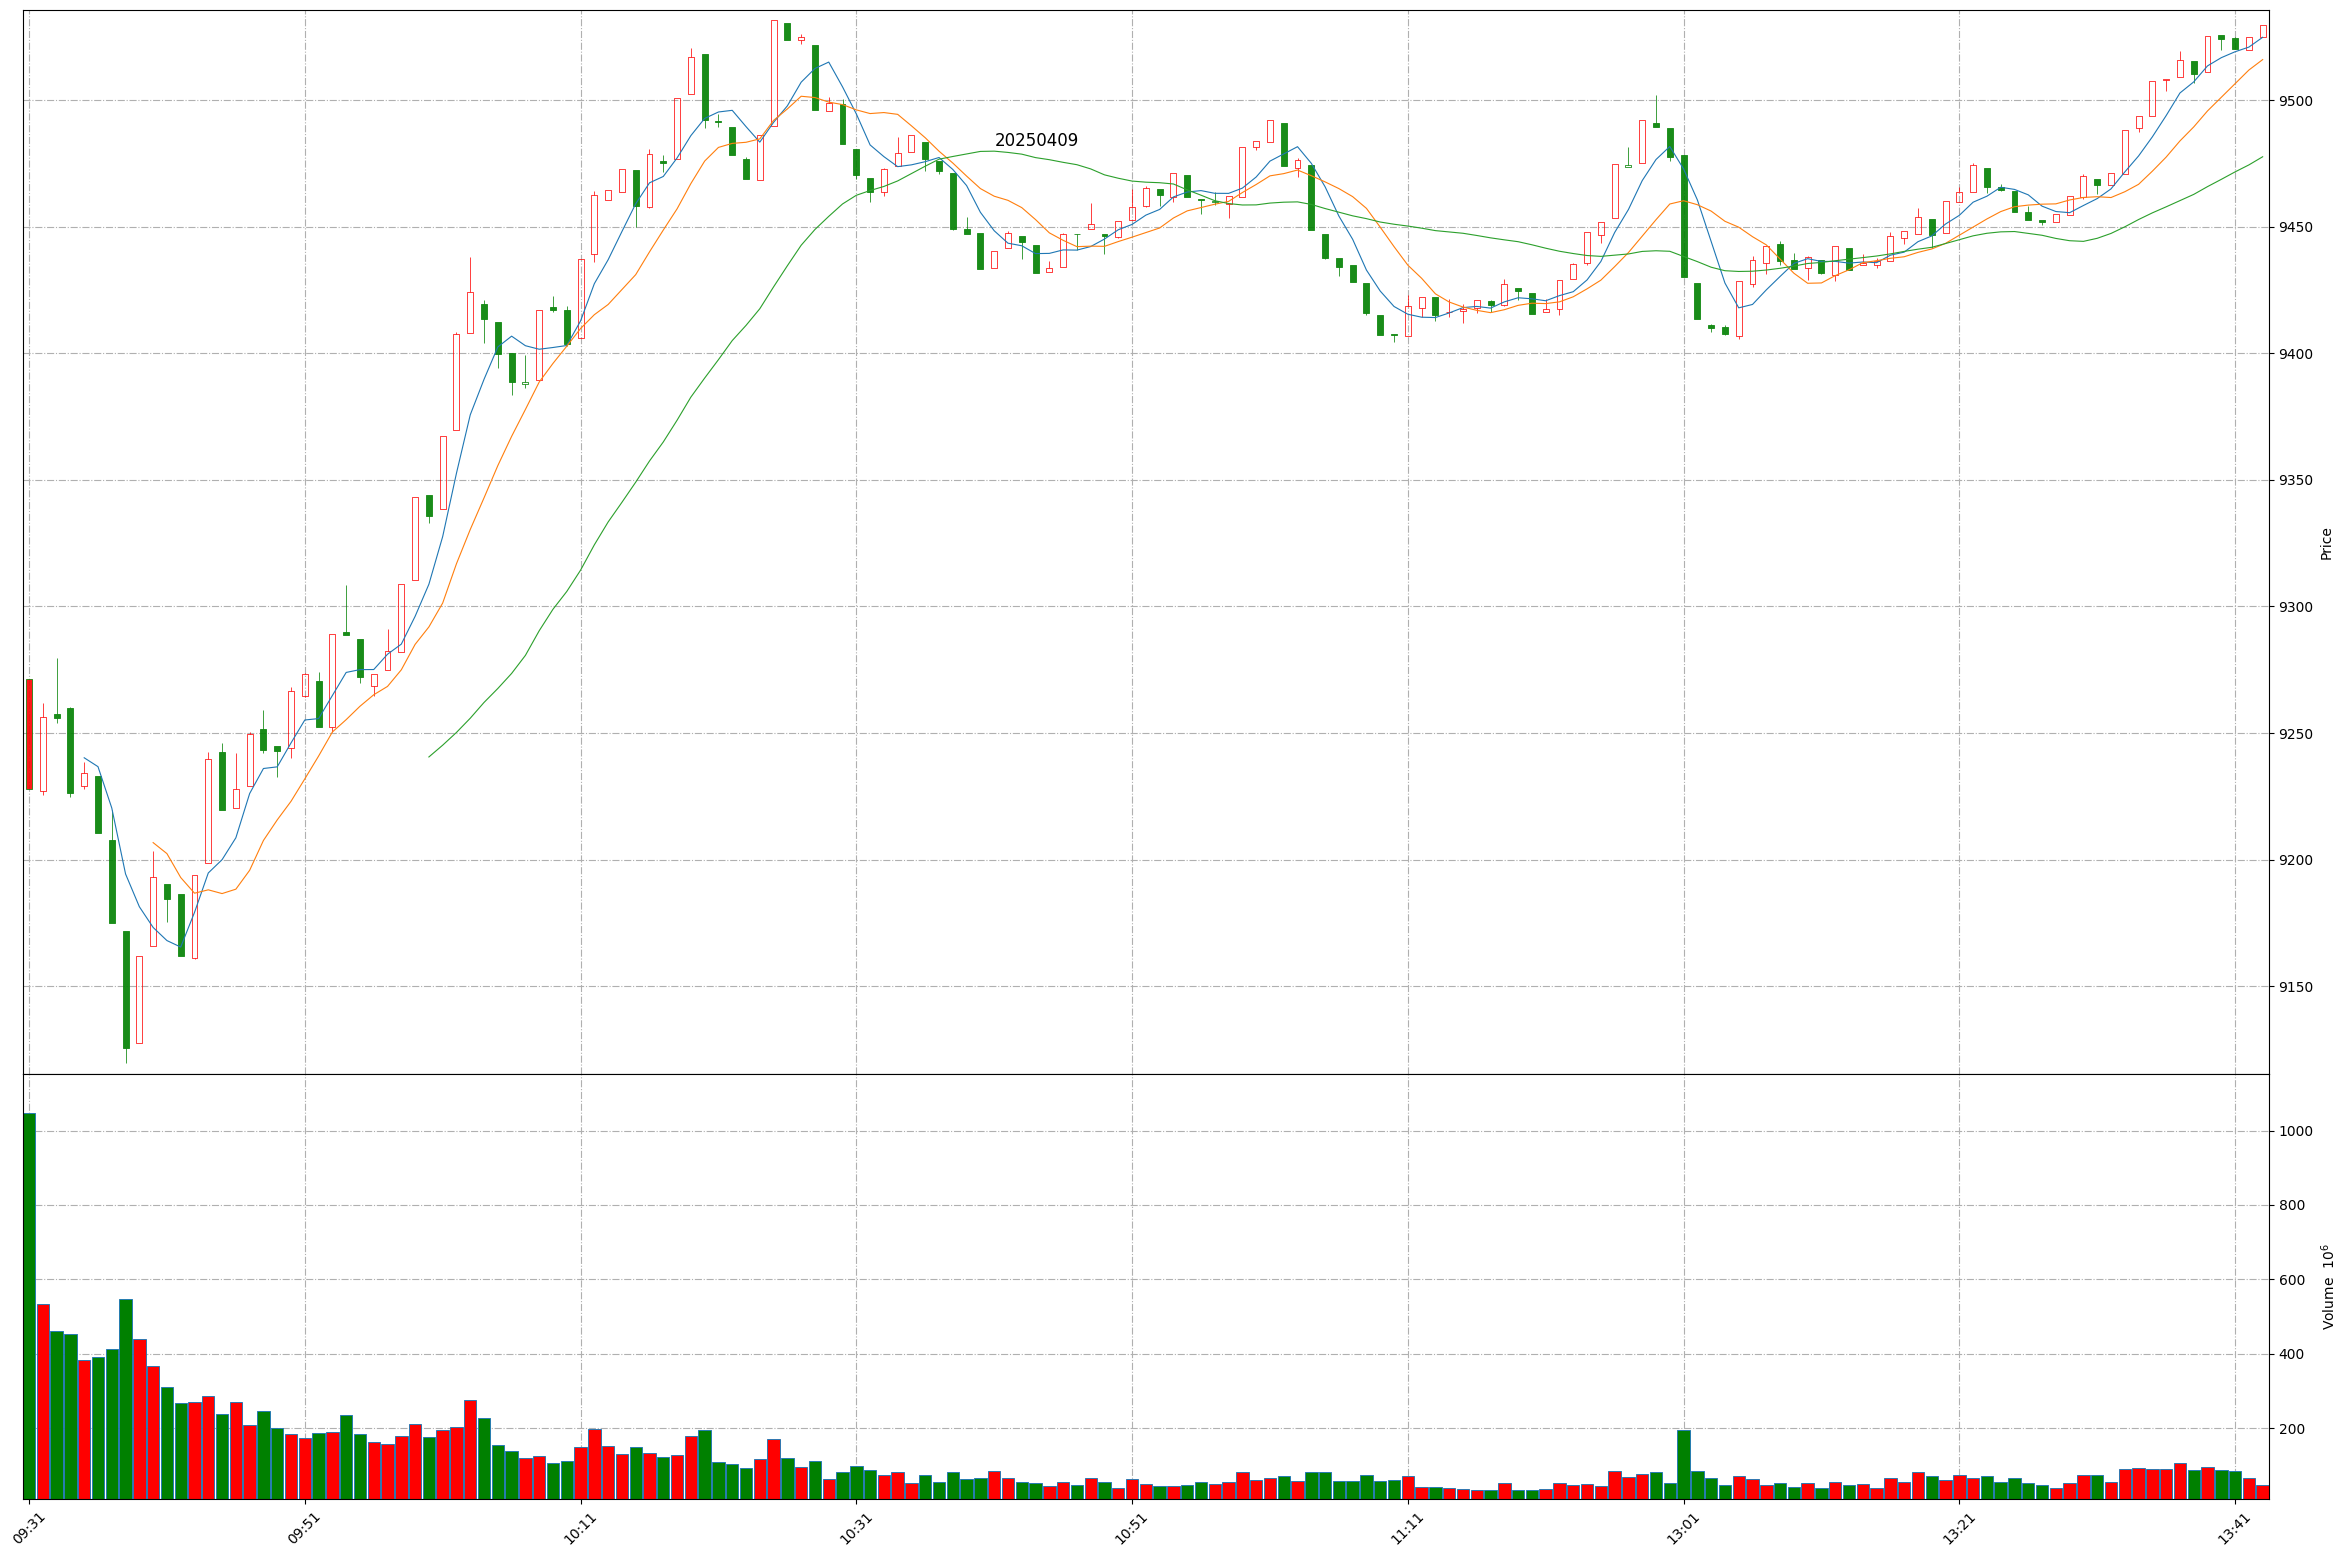
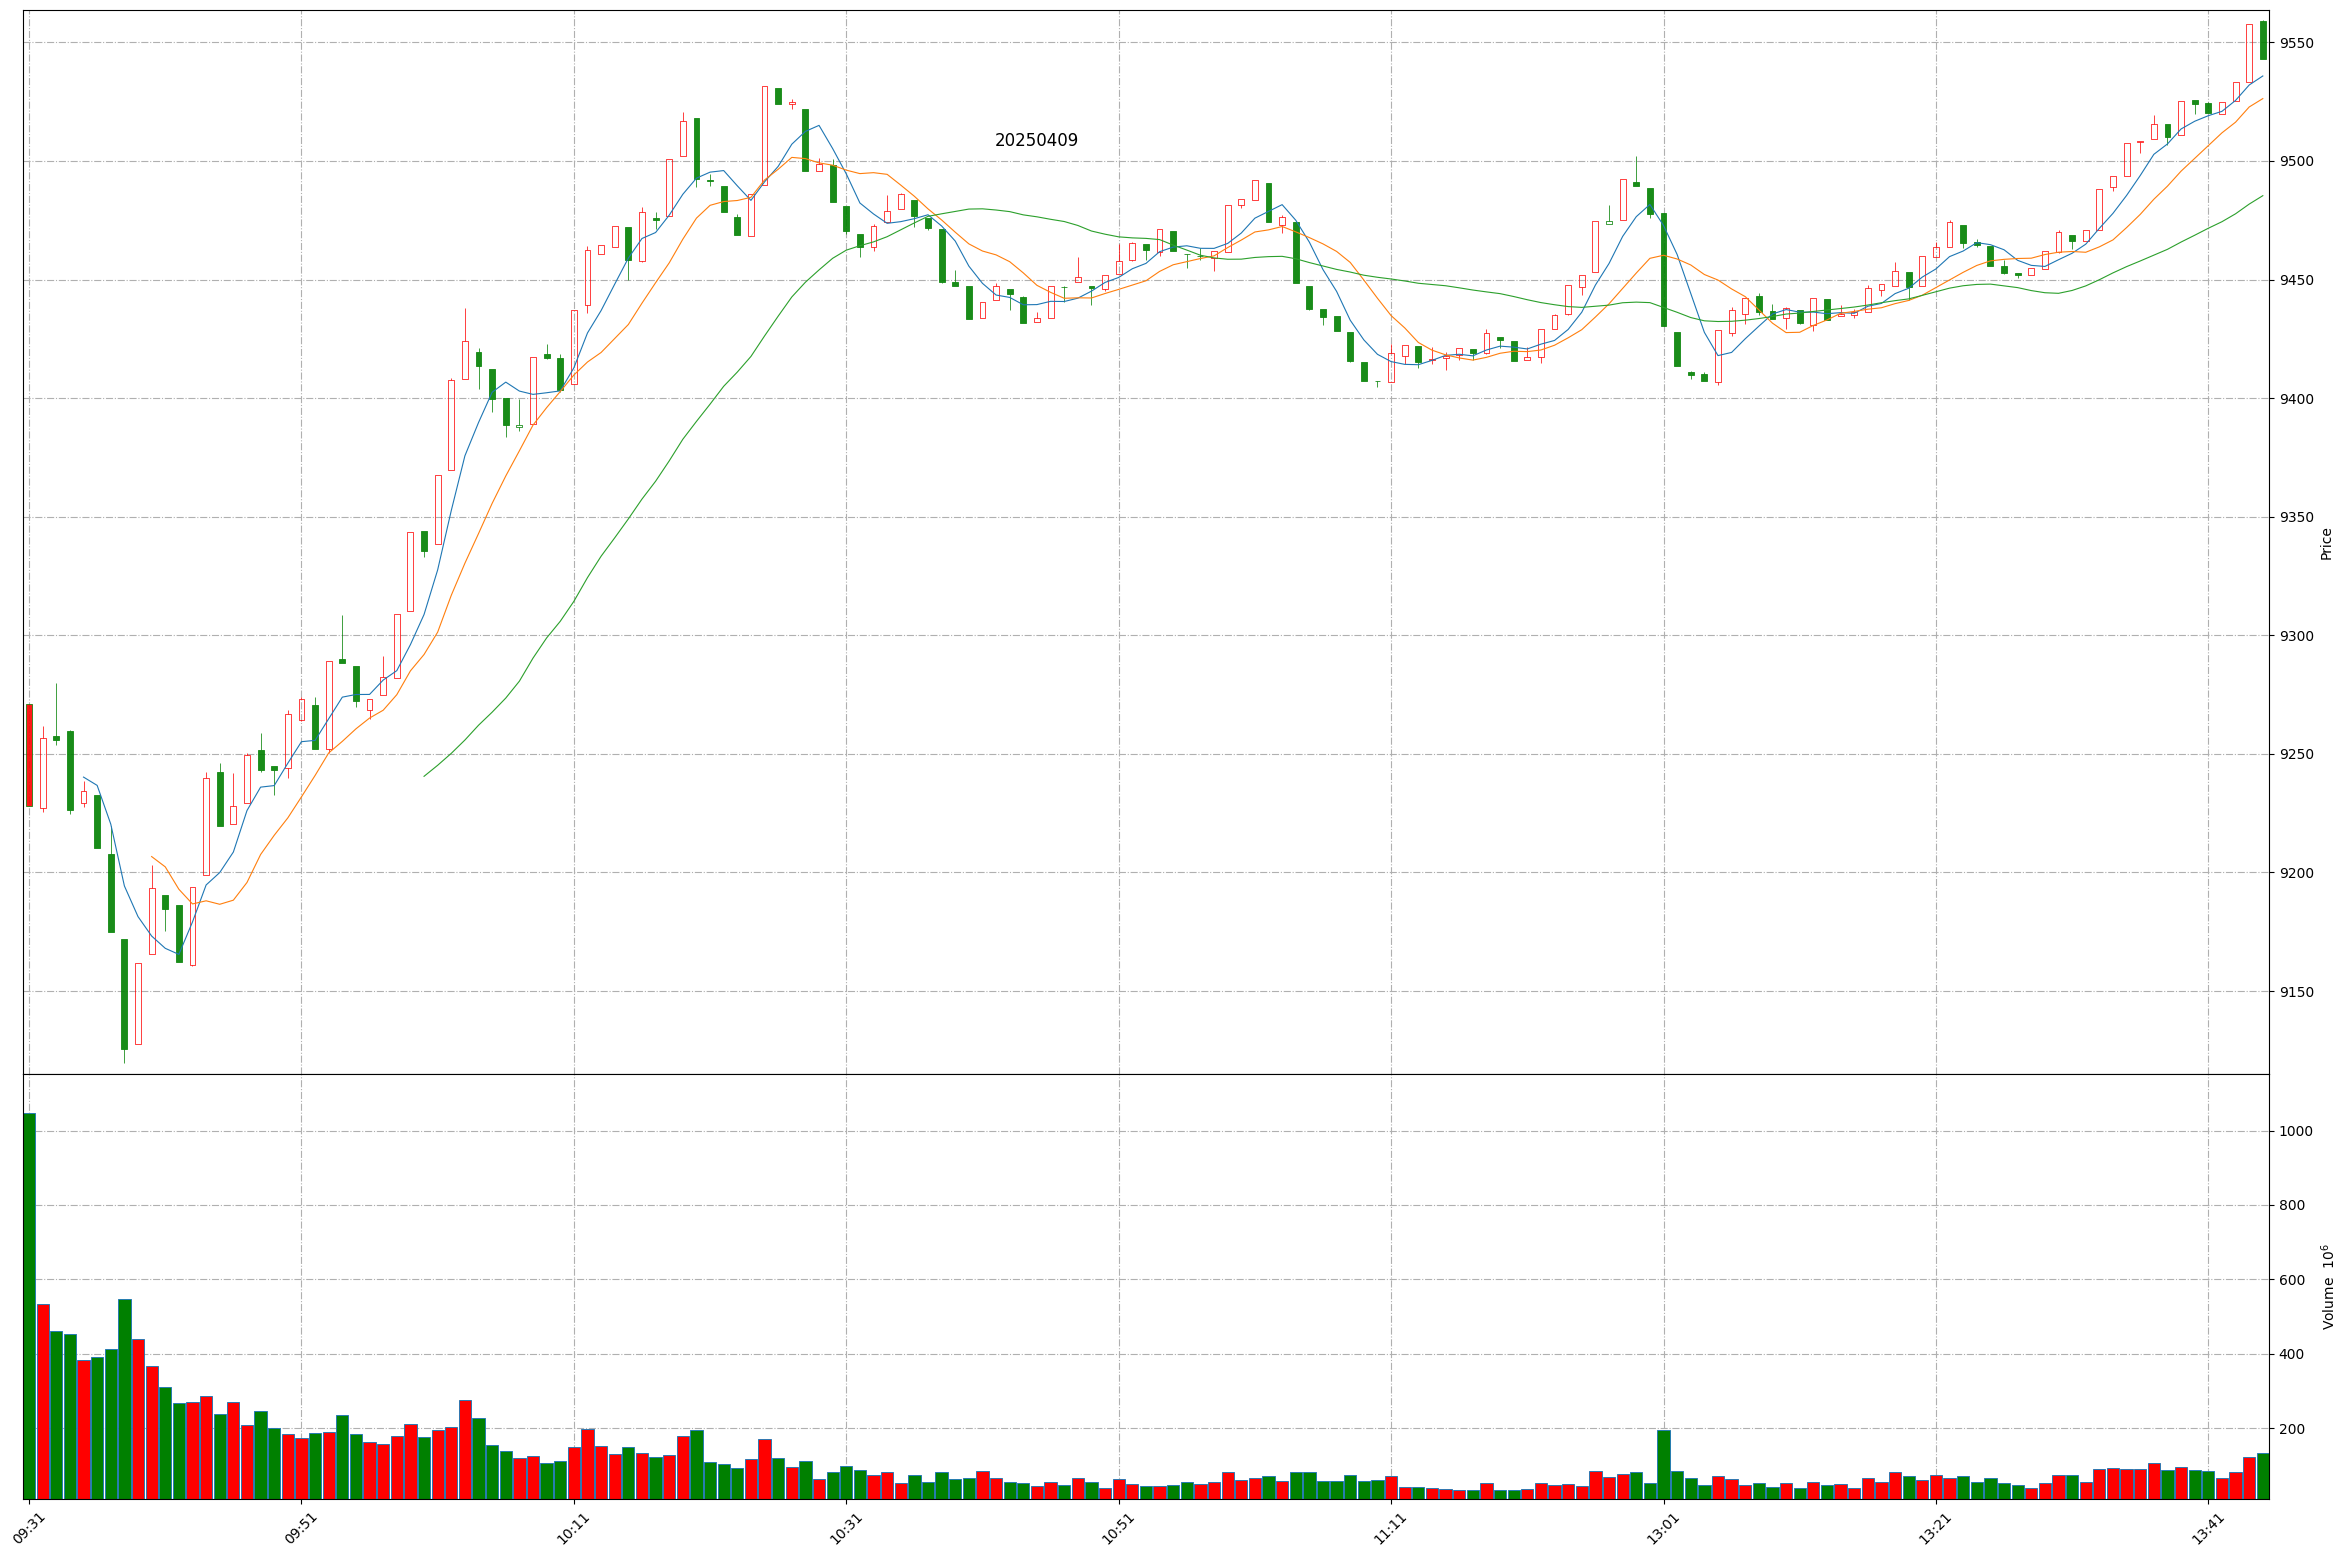
Github action update at 2025-04-09 13:44:59.

diff --git a/README.md b/README.md
@@ -1,11 +1,11 @@
 
 # Daily-A-share-market-quotes 每日 A 股指数（5min 更新）- 20250409
 
-### 上证指数 20250409 13:42
+### 上证指数 20250409 13:44
 ![](./fig/2025/4/20250409-sh000001.png)
 
-### 深证成指 20250409 13:42
+### 深证成指 20250409 13:44
 ![](./fig/2025/4/20250409-sz399001.png)
 
-### 北证50 20250409 13:42
+### 北证50 20250409 13:44
 ![](./fig/2025/4/20250409-bj899050.png)
